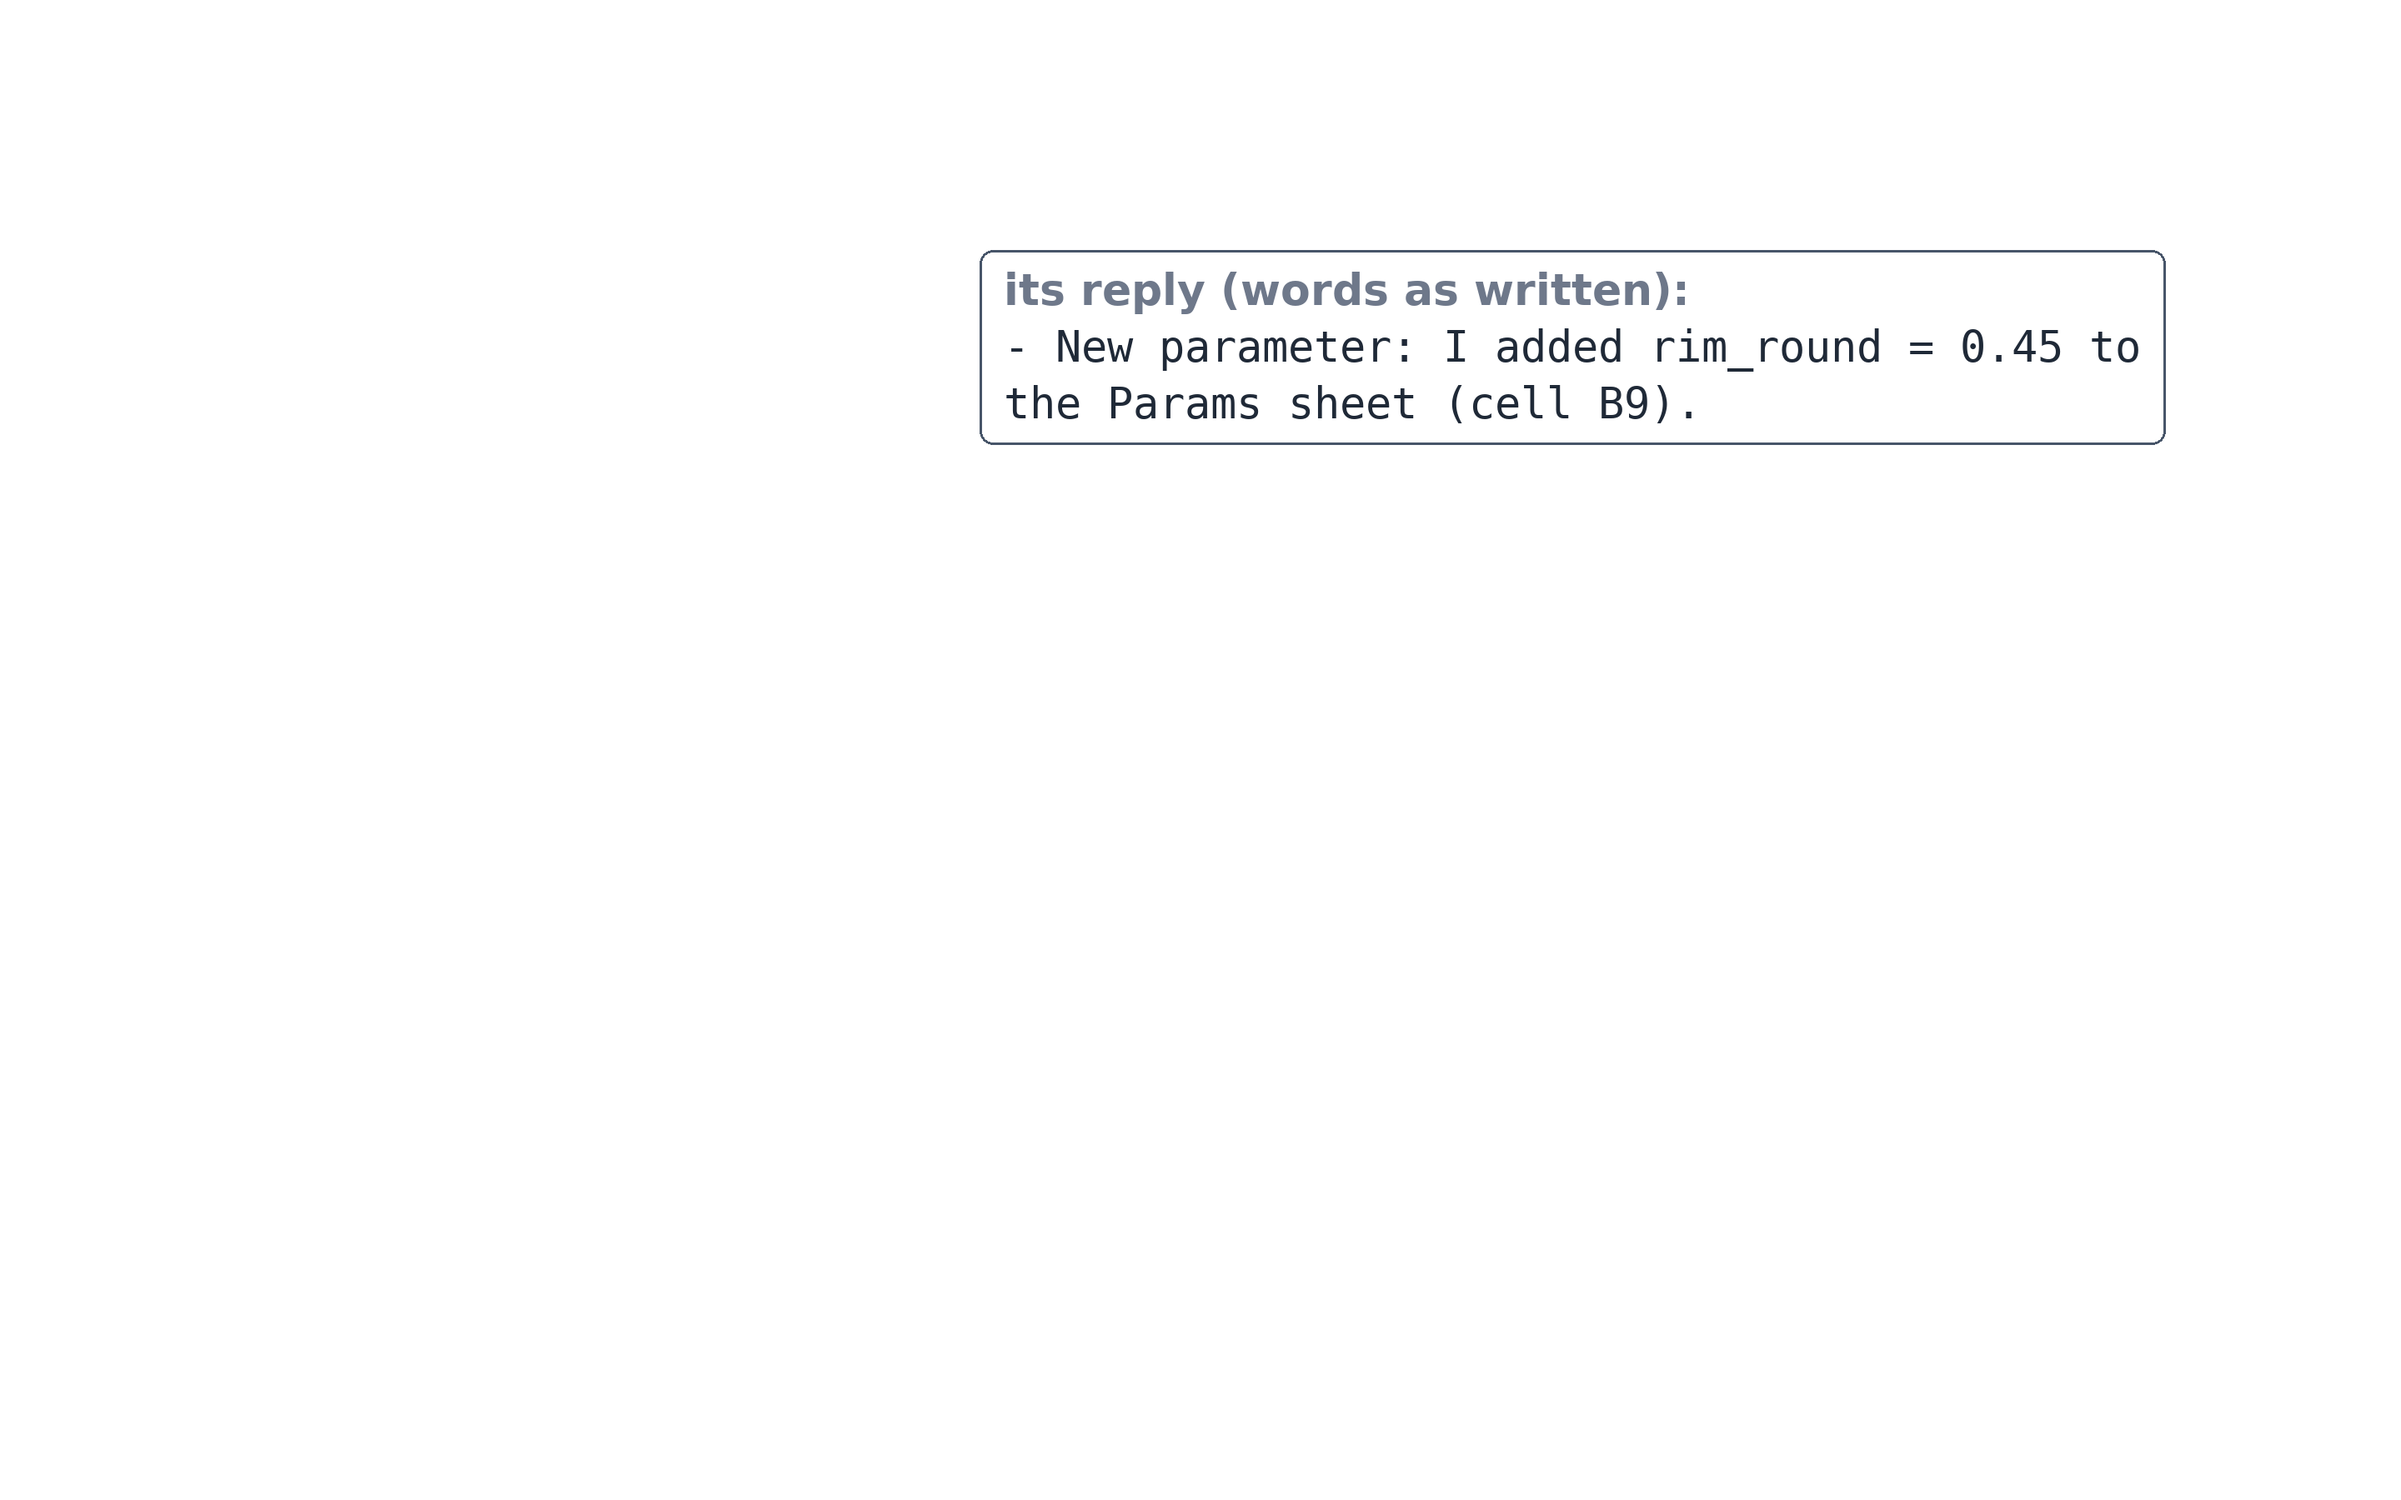
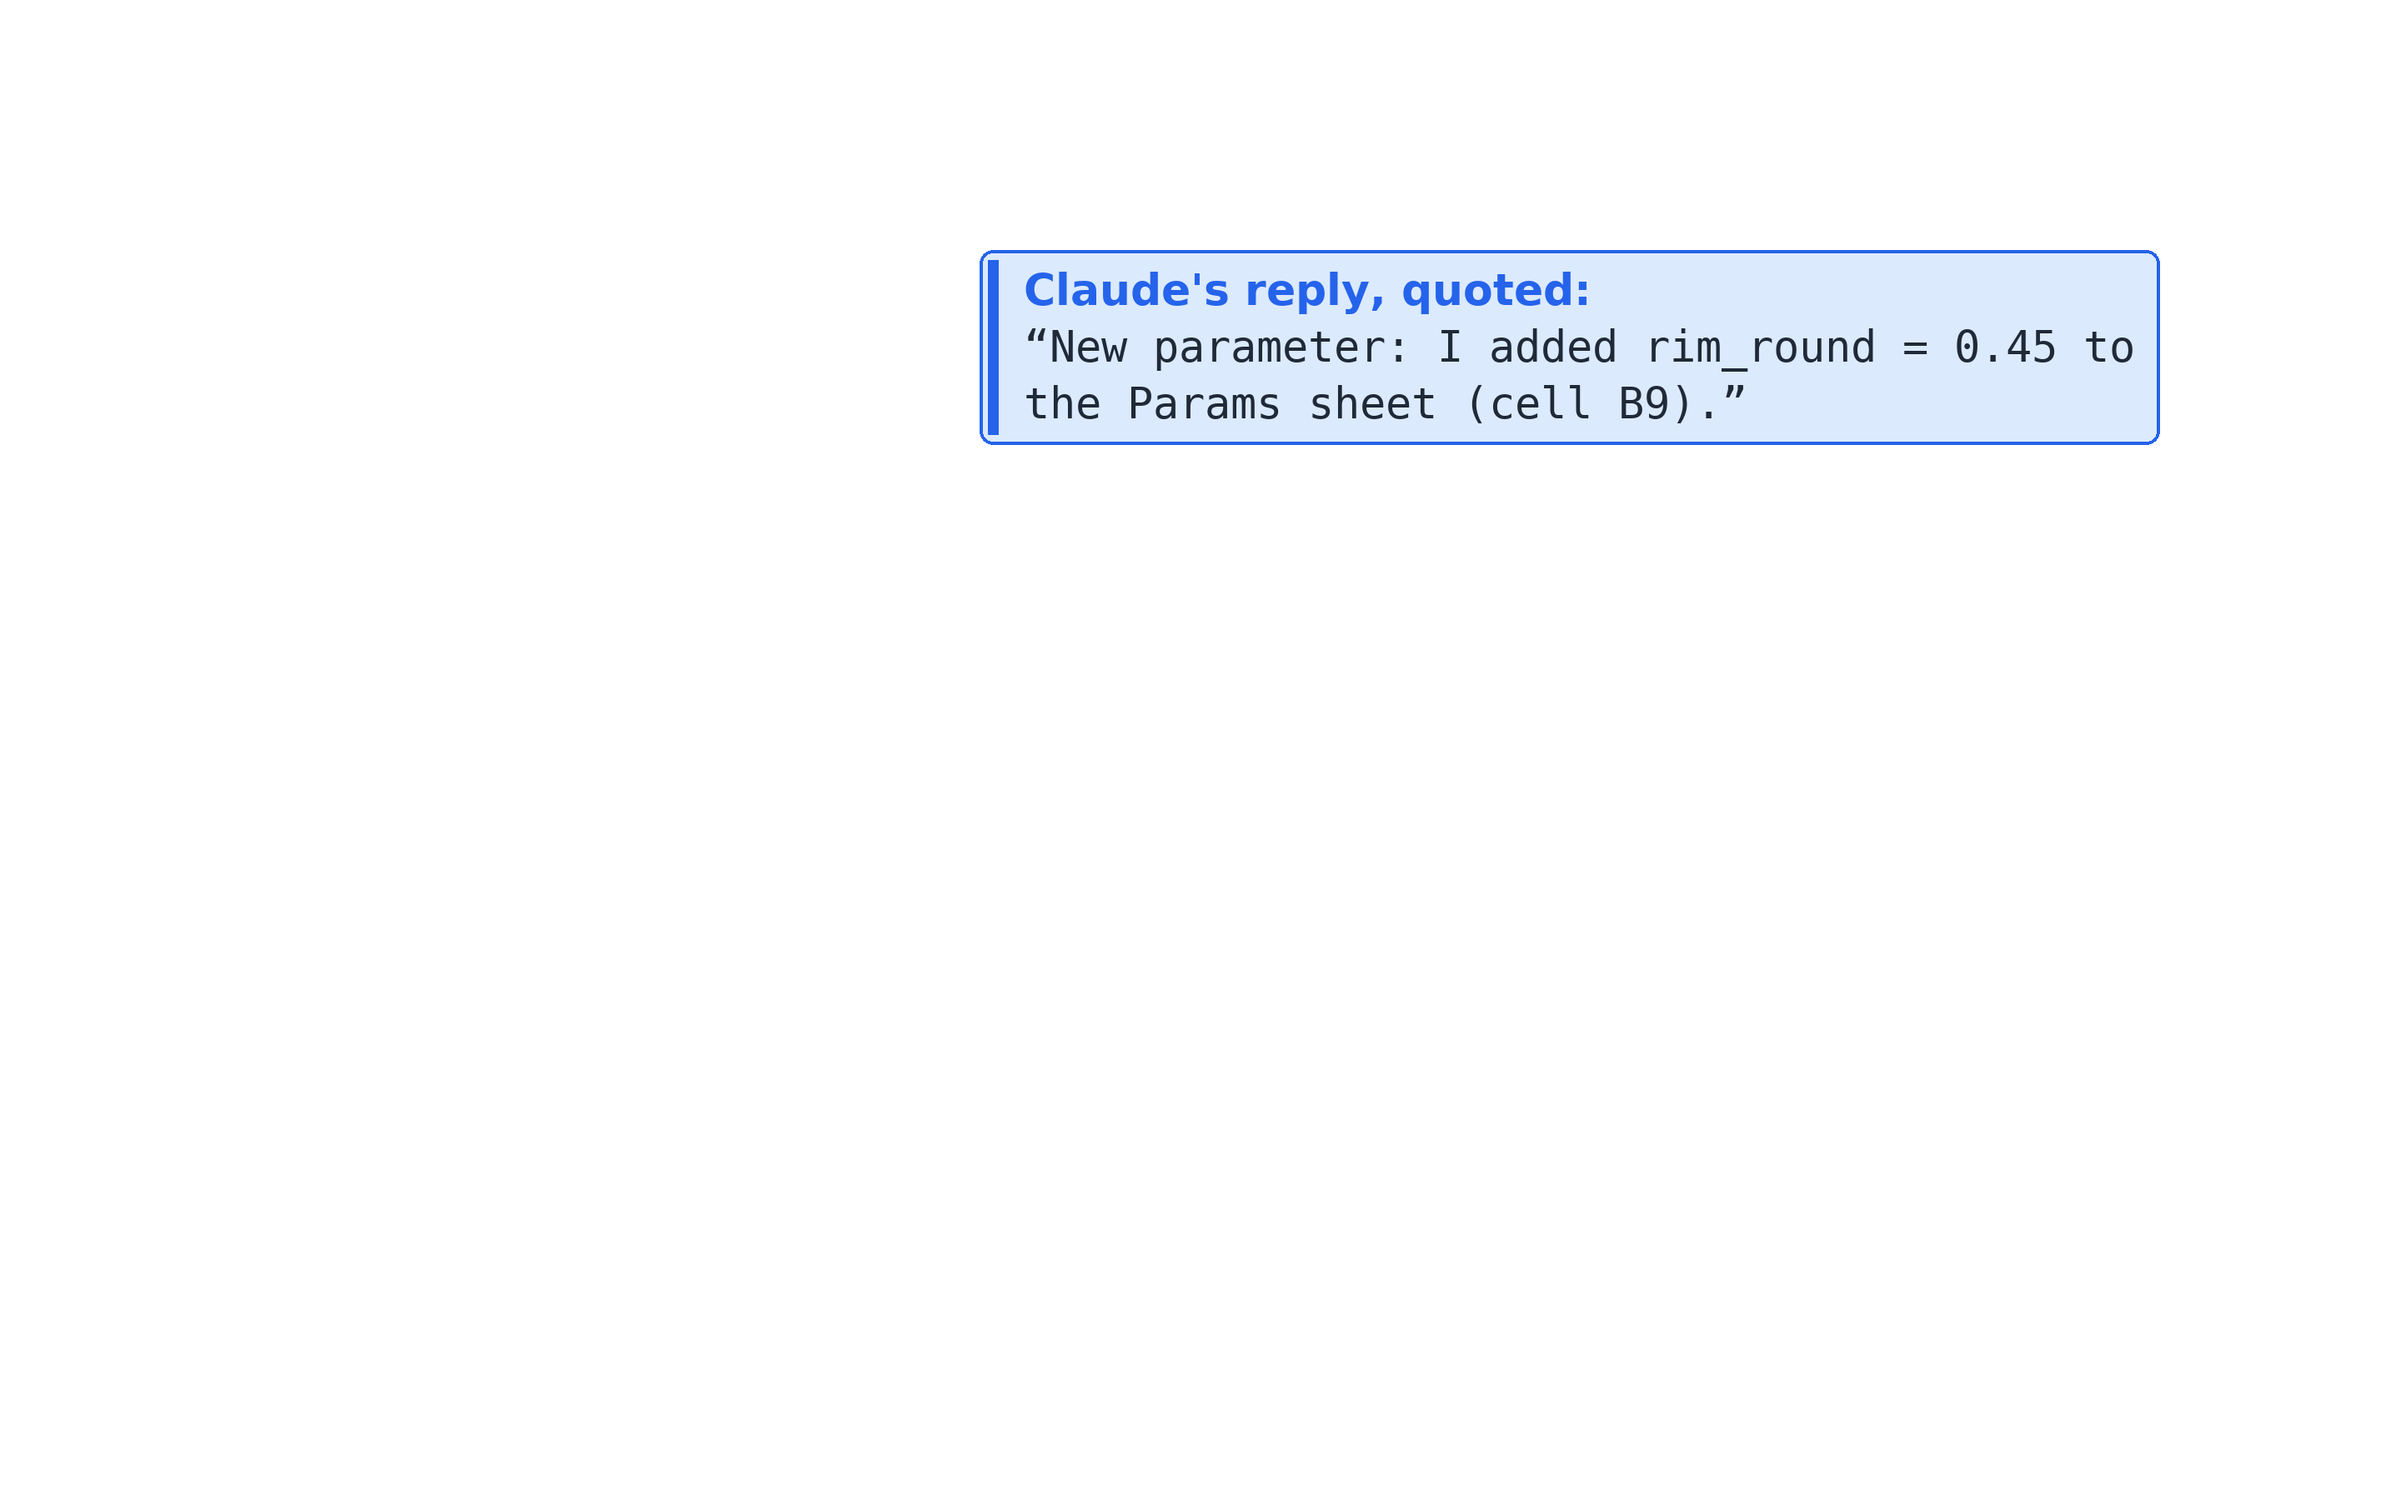
fc15 cut 1: rim locator insets, labelled B1 quote, after-run stills show the cup big; draw tests 14 pass

Changed region(s): [[0.4062, 0.1556, 0.9062, 0.3111]]

diff --git a/video/draw_fc15.py b/video/draw_fc15.py
@@ -300,19 +300,32 @@ def run_lines():
             f'run 2, wall 1.6: {r(bb, 1.6)}']
 
 
+STILL_CROP = {'A1': (1720, 560, 2720, 1420), 'B1': (1720, 400, 2800, 1500)}   # after.png: the cup in its 3D view
+STILL_K = {}
+
+
 def still_after(run, chip):
     """F14: the run's file after the run (still), the panel beside it (never over it)."""
     im, d = canvas()
-    shot = Image.open(os.path.join(TAKES, 'runs', run, 'after.png')).convert('RGB')
-    shot = shot.crop((1160, 0, SW, SH)) if shot.width == SW else shot
-    k = 1300 / shot.width
-    s = shot.resize((1300, round(shot.height * k)), Image.LANCZOS)
+    full = Image.open(os.path.join(TAKES, 'runs', run, 'after.png')).convert('RGB')
+    # fc15 cut 1: the cup cropped from the 3D view (screen px), big; the whole window as an inset beside it
+    box = STILL_CROP[run]
+    shot = full.crop(box)
+    k = min(1300 / shot.width, 1150 / shot.height)
+    STILL_K[run] = round(k, 2)
+    s = shot.resize((round(shot.width * k), round(shot.height * k)), Image.LANCZOS)
     im.paste(s, (140, 220))
     d.rectangle((137, 217, 140 + s.width + 2, 220 + s.height + 2), outline=PARTLINE, width=3)
     text(d, (140, 130), 'its file after the run (still)', 56, INK)
     chip_on(d, (1500, 220), chip, BLUE, px=48)
     lines = run_lines()
     code_box(d, 1500, 400, lines, 'checked by code', 52, 0.8)
+    ki = 600 / full.width
+    th = full.resize((600, round(full.height * ki)), Image.LANCZOS)
+    im.paste(th, (1500, 860))
+    d.rectangle((1498, 858, 1502 + th.width, 862 + th.height), outline=PARTLINE, width=3)
+    d.rectangle(tuple(round(v * ki) + o for v, o in zip(box, (1500, 860, 1500, 860))), outline=ORANGE, width=5)
+    text(d, (1500, 870 + th.height), 'whole window', 48, GREY)
     for ln in lines:
         if len(ln) > 32:
             PROBLEMS.append(f'{ln!r}: over 32')
@@ -431,10 +444,65 @@ def quote(name, run, lines, xy=CC_XY, px=52):
     """Claude's own words, re-set word for word from reply.txt (lines that scrolled off before the last frame)."""
     reply = ' '.join(open(os.path.join(TAKES, 'runs', run, 'reply.txt'), encoding='utf-8').read().split())
     assert ' '.join(lines) in reply, lines
+    # fc15 cut 1: its own look (pale blue, a quote bar, quote marks), never a look-alike of our "checked by code" panel
     im, d = source()
-    code_box(d, xy[0], xy[1], list(lines), 'its reply (words as written):', px, 0.8)
+    lines = list(lines)
+    lines[0] = lines[0][2:] if lines[0].startswith('- ') else lines[0]   # the Markdown bullet is not a word
+    lines[0] = '“' + lines[0]
+    lines[-1] = lines[-1] + '”'
+    fh, fl = b.font(b.B, px), b.font(f10.MONO, px)
+    title = "Claude's reply, quoted:"
+    lh, pad = round(px * 1.3), round(px * 0.55)
+    rows = [(title, fh)] + [(t, fl) for t in lines]
+    x, y = xy
+    w = max(d.textlength(t, font=f) for t, f in rows) + 2 * pad + 24
+    h = lh * len(rows) + pad
+    d.rounded_rectangle((x, y, x + w, y + h), radius=round(px * 0.3), fill=(219, 234, 254, 250),
+                        outline=BLUE + (255,), width=4)
+    d.rectangle((x + 10, y + 12, x + 22, y + h - 12), fill=BLUE + (255,))
+    for i, (t, f) in enumerate(rows):
+        d.text((x + pad + 24, y + pad * 0.6 + i * lh), t, font=f, fill=(BLUE if i == 0 else INK) + (255,))
+        CUR.append((t, round(px * 0.8)))
+    if x + w > SW or y + h > SH:
+        PROBLEMS.append(f'{name}: quote off the frame')
     save(im, name)
     PANEL_NAMES.append(name)
+
+
+ISO_R = os.path.join(TAKES, 'R', 'iso-32.png')   # take R at 32.0 s, the fitted iso view (ffmpeg, video-qa:2)
+ISO_CROP = (1180, 260, 2380, 1580)                # the whole cup on that frame
+RIM_SPOT = (2068, 814)                            # (31, 0, 50): the right wall's top edge, where every zoom looks
+LOC_XY, LOC_H = (510, 310), 480
+
+
+def _loc_geom():
+    s = LOC_H / (ISO_CROP[3] - ISO_CROP[1])
+    w = round((ISO_CROP[2] - ISO_CROP[0]) * s)
+    mx = LOC_XY[0] + 16 + round((RIM_SPOT[0] - ISO_CROP[0]) * s)
+    my = LOC_XY[1] + 16 + round((RIM_SPOT[1] - ISO_CROP[1]) * s)
+    return s, w, (mx, my)
+
+
+LOC_MARK = (_loc_geom()[2][0] - 36, _loc_geom()[2][1])   # a pixel on the mark's left side (tests)
+
+
+def locator(name, caption):
+    """fc15 cut 1: an inset of the whole cup (R's iso view) with the zoomed spot boxed, for the rim close-ups."""
+    im, d = source()
+    s, w, (mx, my) = _loc_geom()
+    x, y = LOC_XY
+    pic = Image.open(ISO_R).convert('RGB').crop(ISO_CROP).resize((w, LOC_H), Image.LANCZOS)
+    d.rounded_rectangle((x, y, x + w + 32, y + LOC_H + 84), radius=16, fill=WHITE + (250,), outline=ORANGE + (255,),
+                        width=5)
+    im.paste(pic, (x + 16, y + 16))
+    d = ImageDraw.Draw(im)
+    d.rectangle((mx - 36, my - 24, mx + 36, my + 24), outline=ORANGE + (255,), width=7)
+    f = b.font(b.B, 40)
+    d.text((x + 18, y + LOC_H + 26), caption, font=f, fill=INK + (255,))
+    CUR.append((caption, round(40 * 0.8)))
+    if d.textlength(caption, font=f) > w + 10:
+        PROBLEMS.append(f'{caption!r}: wider than the inset')
+    save(im, name)
 
 
 RECAP = ['A round uses its radius\non the top and the side', 'Rim out + rim in\nless than the wall',
@@ -493,6 +561,8 @@ def main():
     ring('ov-flat-F.png', FLAT_F, GREEN)
     ring('ov-err-P.png', ROW_F001, RED)
     sums()
+    locator('ov-loc-iso.png', 'the rim, close up')
+    locator('ov-loc-top.png', 'rim, from above')
     for s in (1, 2, 3):
         ov_lines(f'rc-{s}.png', RECAP, s, (20, 1120, 1300, 1720))
     ov_lines('yt-1.png', TURN, 3, (20, 1300, 1300, 1720), px=56, one=True)

diff --git a/tests/test_draw_fc15.py b/tests/test_draw_fc15.py
@@ -143,7 +143,7 @@ def test_key_words_drawn(run):
               'run 1, wall 3: 1.2 + 1.2', 'run 2, wall 3: 1.35 + 1.35', 'run 1, wall 1.6: 0.64 + 0.64',
               'run 2, wall 1.6: 0.72 + 0.72', '0.8 built, 0.85 failed,', '0.9 built (run 2)',
               'FILLET 3 ON A 2 MM WALL:', 'FAILED', 'Your turn: wall 2.5', 'outside 1.2, inside 1.5',
-              'Builds, or fails?', 'both share', 'checked by code', 'from the run log', 'its reply (words as written):',
+              'Builds, or fails?', 'both share', 'checked by code', 'from the run log', "Claude's reply, quoted:",
               'It builds for walls from 0.75 mm to 10 mm.'):
         assert s in allt, s
 
@@ -163,3 +163,35 @@ def test_numbers_match_the_lab():
     a, b_ = NUM['runs']['A1']['check'], NUM['runs']['B1']['check']
     assert a['at_wall2']['round_radii'] == {'out': [0.8], 'in': [0.8]} and a['at_wall2']['flat'] == 0.4
     assert b_['at_wall2']['round_radii'] == {'out': [0.9], 'in': [0.9]} and b_['at_wall2']['flat'] == 0.2
+
+
+def test_locator_insets(run):
+    """fc15 cut 1 (lesson 14/15 gate: the full part before every close-up): every rim close-up carries an inset of the
+    whole cup (take R's iso view) with the zoomed spot boxed, top left of the 3D view, clear of the labels and rings."""
+    for n, word in (('ov-loc-iso.png', 'close up'), ('ov-loc-top.png', 'from above')):
+        assert n in run, n
+        im = Image.open(os.path.join(d.OUT, n))
+        assert im.size == (2880, 1800)
+        x0, y0, x1, y1 = im.getbbox()
+        assert x0 >= 480 and y0 >= 300 and x1 <= 1120 and y1 <= 900, (n, im.getbbox())
+        assert x1 - x0 >= 380 and y1 - y0 >= 400, n
+        assert any(word in t for t in texts(run, n)), n
+        r, g, b, a = im.getpixel(d.LOC_MARK)
+        assert a > 200 and r > 200 and b < 120, (n, d.LOC_MARK, (r, g, b, a))
+
+
+def test_quotes_read_as_quotes(run):
+    """fc15 cut 1 (lesson 14/15 gate): the re-set reply is a labelled quote, never a look-alike of our code panels."""
+    for n in ('ov-quote-B1a.png', 'ov-quote-B1b.png'):
+        t = texts(run, n)
+        assert t[0] == "Claude's reply, quoted:", t
+        assert t[1].startswith('\u201c') and t[-1].endswith('\u201d'), t
+        assert not any('checked by code' in x for x in t)
+
+
+def test_after_stills_show_the_part_big(run):
+    """fc15 cut 1 (lesson 14 gate: Claude stills show the result): the cup cropped from its 3D view at 1.0x or more
+    (was the whole pane at 0.76x), with a whole-window inset beside it (the full window before a crop)."""
+    for r in ('A1', 'B1'):
+        assert d.STILL_K[r] >= 1.0, (r, d.STILL_K[r])
+        assert 'whole window' in texts(run, f'still-after-{r}.png')
